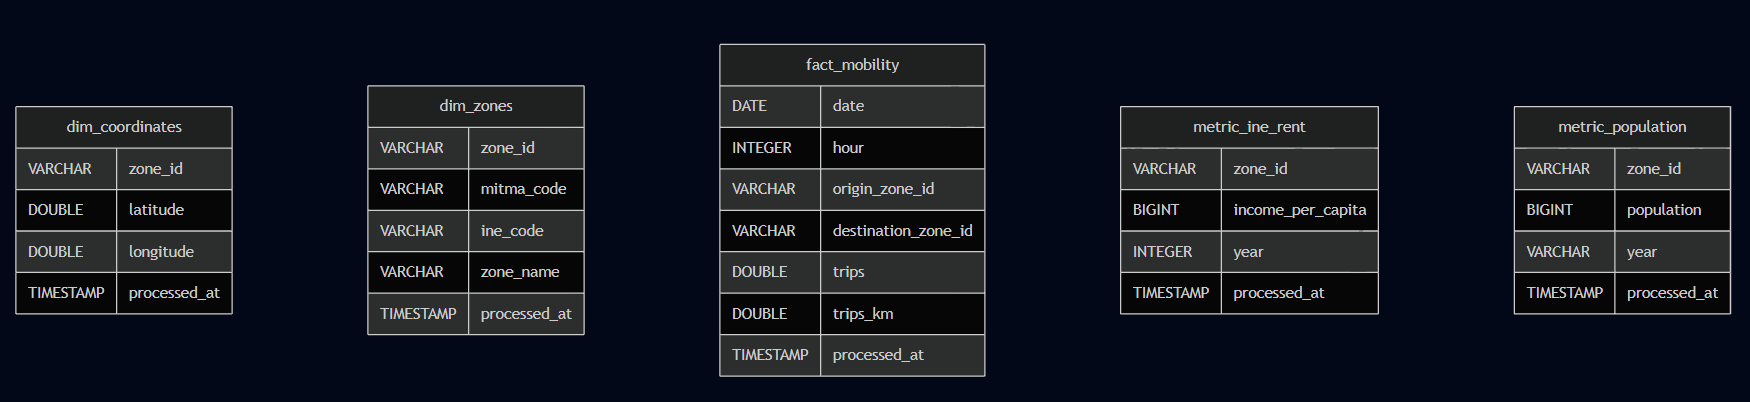
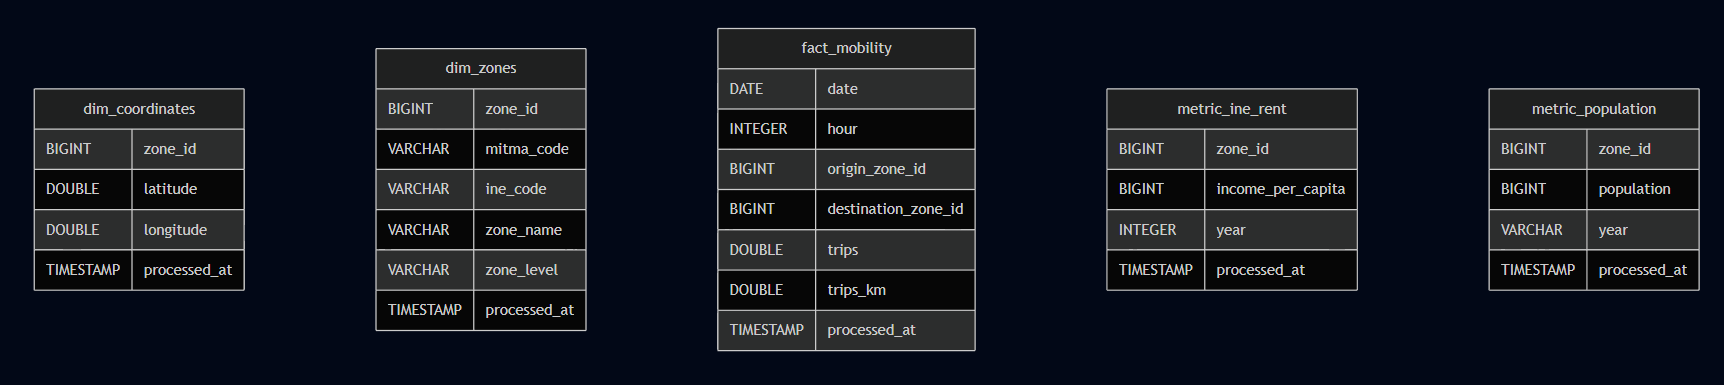
docs: Silver v2 layer docs

diff --git a/docs/sprint_logs/Sprint-2.md b/docs/sprint_logs/Sprint-2.md
@@ -68,7 +68,7 @@ The following tables have been successfully established in the `lakehouse.bronze
 
 ### 3.2. Silver Layer Transformation `(In progress)`
 
-The Silver layer represents the **"Trusted"** zone of the Lakehouse. In this stage, we transitioned from raw strings to strongly typed data, applied business rules for data integration, and established a **Star Schema** architecture to facilitate downstream analytics. The primary transformation engine used was DuckDB SQL.
+The Silver layer represents the **"Trusted"** zone of the Lakehouse. In this stage, we transitioned from raw strings to strongly typed data, applied business rules for data integration, and established a robust **Star Schema** architecture utilizing **Surrogate Keys**. The primary transformation engine used was DuckDB SQL.
 
 **1. Data Cleaning & Type Casting Strategy**
 A major challenge was handling the heterogeneity of Spanish numeric formats in the Bronze text files. We implemented a robust casting strategy to prevent data loss:
@@ -76,27 +76,31 @@ A major challenge was handling the heterogeneity of Spanish numeric formats in t
 *   **The "Zero" Trap:** For integer metrics (Population), we strictly cast to `DOUBLE` before `BIGINT` (e.g., `CAST(TRY_CAST('10.0' AS DOUBLE) AS BIGINT)`). This prevented truncating values like `"50.0"` into `"5"`, a common error when using string manipulation on floating-point strings.
 *   **Safe Casting:** `TRY_CAST` was used universally to return `NULL` instead of crashing the pipeline when encountering malformed data.
 
-**2. Dimensional Modeling (The "Hub" Architecture)**
-We constructed a Star Schema centered around a master **`dim_zones`** table. This table acts as the "Rosetta Stone," bridging the gap between MITMA mobility codes and INE economic codes.
-*   **Zone Deduplication:** We detected "Aggregated Zones" (`_AM` suffix) in the MITMA dataset where one transport zone represented multiple municipalities. To preserve **1:1 cardinality** and prevent row explosion in joins, we grouped these duplicates, selecting a representative INE code for linkage.
-*   **Geospatial Integration:** Linking coordinates required harmonizing INE Nomenclator codes (11 digits) with Municipality codes (5 digits). We implemented a `LEFT(col, 5)` logic with safe integer comparison to join them. For zones containing multiple population nuclei, we calculated the **Geospatial Centroid** using `AVG(latitude)` and `AVG(longitude)`.
+**2. Dimensional Modeling (Surrogate Key Architecture)**
+We constructed a Star Schema centered around a master **`dim_zones`** table. Crucially, we decoupled the Lakehouse from external data changes by moving from Natural Keys (Raw Text Codes) to **Surrogate Keys** (Auto-generated Sequential Integers).
+*   **Abstraction Layer:** The `zone_id` is now a generated `BIGINT`. All satellite tables (`metric_population`, `metric_ine_rent`) were updated to lookup this internal ID via the Dimension table, ensuring referential integrity across the system.
+*   **Zone Deduplication:** We detected "Aggregated Zones" (`_AM` suffix) in the MITMA dataset where one transport zone represented multiple municipalities. To preserve **1:1 cardinality** for the ID generation, we grouped these duplicates, selecting a representative INE code for linkage.
+*   **Geospatial Integration:** Linking coordinates required harmonizing INE Nomenclator codes (11 digits) with Municipality codes (5 digits). We implemented a `LEFT(col, 5)` logic with safe integer comparison to join them to the new Surrogate IDs.
 
 **3. Fact Table Optimization**
-The `fact_mobility` table was generated by processing the raw daily matrices:
-*   **Partition Maintenance:** The `fecha` partition strategy from Bronze was preserved to ensure queries remain performant in the Gold layer.
-*   **Temporal Enrichment:** We pre-calculated the `day_of_week` and converted strings to `DATE` objects during insertion, enabling "Typical Day" analysis without expensive runtime date parsing.
-*   **Decoupling:** We deliberately avoided `INNER JOIN`ing the Fact table with Dimensions during insertion. This "Late Binding" strategy ensures that 100% of the raw trips are preserved in the Silver layer, even if a zone dictionary entry is temporarily missing.
+The `fact_mobility` table was transformed to enforce a strict Schema:
+*   **Integer-Based Foreign Keys:** During insertion, we performed `LEFT JOIN` lookups against `dim_zones` to resolve raw text codes (e.g., `'28079'`) into system Integer IDs. This optimizes storage and join performance in the Gold layer.
+*   **External Zone Handling:** International codes (e.g., `'PT170'`, `'FR...'`) which do not exist in the Spanish Master Dimension are automatically set to `NULL`. This architectural decision prioritizes schema strictness (Foreign Keys must be Integers) over international granularity, which aligns with the project's focus on Spanish mobility.
+*   **Partition Maintenance:** The `fecha` partition strategy from Bronze was preserved.
+*   **Temporal Enrichment:** We pre-calculated the `day_of_week` and converted strings to `DATE` objects to facilitate "Typical Day" analysis.
 
 **4. Silver Artifacts**
 The following tables constitute the Core Lakehouse layer:
 
 | Table Name | Type | Key Transformations |
 | :--- | :--- | :--- |
-| **`fact_mobility`** | Fact | Partitioned by Date. Types cast to `DOUBLE`. Normalized column names (English). |
-| **`dim_zones`** | Dim | Deduplicated by Zone ID. Cleaned `NA` strings to SQL `NULL`. |
-| **`dim_coordinates`** | Dim | Centroids calculated via `AVG`. Joined via substring matching. |
-| **`metric_population`** | Metric | Safe Double-to-Int casting. Filtered strictly for reference year 2023. |
-| **`metric_ine_rent`** | Metric | Parsed text fields (`"Code Name"`) to extract ID. Filtered for Municipality level only. |
+| **`fact_mobility`** | Fact | Partitioned by Date. IDs resolved to `BIGINT` (Surrogate). Non-Spanish zones set to `NULL`. |
+| **`dim_zones`** | Dim | **Surrogate Key (1, 2, 3...)**. Deduplicated. Cleaned `NA` strings to SQL `NULL`. |
+| **`dim_coordinates`** | Dim | Joined to Surrogate ID. Centroids calculated via `AVG`. |
+| **`metric_population`** | Metric | Linked to Surrogate ID. Safe Double-to-Int casting. Filtered for 2023. |
+| **`metric_ine_rent`** | Metric | Linked to Surrogate ID. Parsed text fields (`"Code Name"`) to extract matching logic. |
+
+---
 
 **5. Schema:**
 - ![alt text](../diagrams/Silver_Schema_diagramS2.png)
